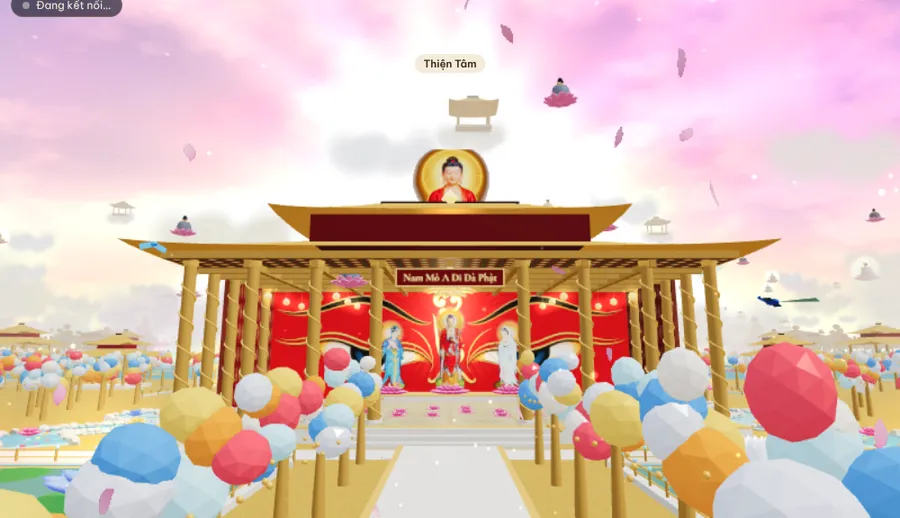
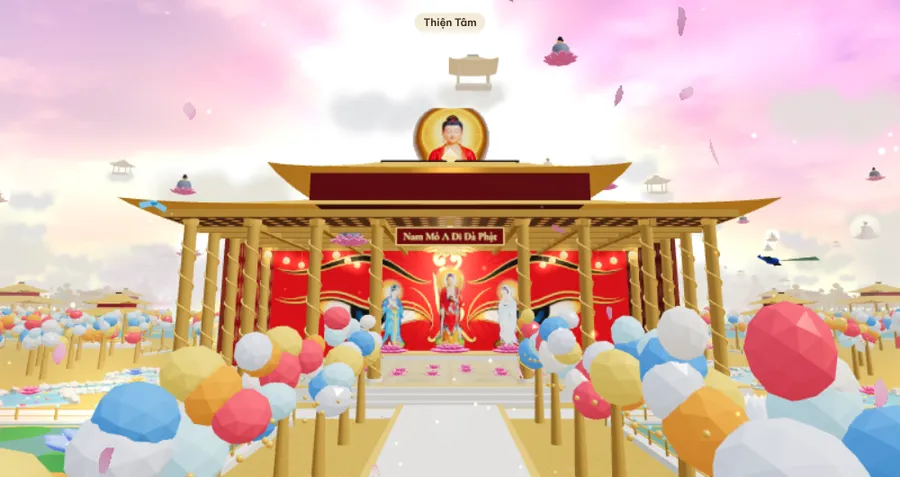
Hướng dẫn: ảnh bìa sạch hơn
Claude-Session: https://claude.ai/code/session_01Cii89sNnJTsj23pM4uwP29

diff --git a/tinhthat/huong-dan.html b/tinhthat/huong-dan.html
@@ -121,7 +121,7 @@ footer p{color:var(--ink2);font-size:15px}
     <h1>Hướng Dẫn Đi Chùa Trực Tuyến<br>Đạo Tràng Viên Thành</h1>
     <p class="lead">Ở nhà vẫn có thể lên chùa lễ Phật, thắp hương, thỉnh chuông, niệm Phật cùng đại chúng mỗi ngày và dạo cảnh Tây Phương Cực Lạc. Chỉ cần điện thoại hoặc máy tính có mạng, không phải cài đặt gì.</p>
     <a class="cta" href="./?v=28">🪷 Vào chùa ngay</a><a class="cta ghost" href="#vao-chua">Xem hướng dẫn</a>
-    <div class="heroimg"><img src="hd/hero.webp" width="900" height="518" alt="Chánh điện cõi Tây Phương Cực Lạc trong Đạo Tràng Viên Thành" fetchpriority="high"></div>
+    <div class="heroimg"><img src="hd/hero.webp" width="900" height="477" alt="Chánh điện cõi Tây Phương Cực Lạc trong Đạo Tràng Viên Thành" fetchpriority="high"></div>
     <div class="quick">
       <div class="q"><b>1</b><p><strong>Mở trang</strong> chottinhthuc.com, chọn mục Đạo Tràng Viên Thành, bấm “Vào chùa”.</p></div>
       <div class="q"><b>2</b><p><strong>Kéo ngón tay</strong> để đi dạo, đến gần tượng Phật sẽ hiện nút vàng để lễ.</p></div>
@@ -255,7 +255,7 @@ footer p{color:var(--ink2);font-size:15px}
       <div><div class="phone"><img src="hd/bando.webp" width="540" height="1054" alt="Bản đồ cõi Cực Lạc" loading="lazy"></div><div class="cap">Bản đồ, chạm tên để đến</div></div>
     </div>
   </div>
-  <div class="heroimg" style="margin-top:30px"><img src="hd/tuong.webp" width="900" height="518" alt="Tượng Đức Phật A Di Đà cao 500 mét" loading="lazy"></div>
+  <div class="heroimg" style="margin-top:30px"><img src="hd/tuong.webp" width="900" height="477" alt="Tượng Đức Phật A Di Đà cao 500 mét" loading="lazy"></div>
   <div class="cap">Tượng Đức Phật A Di Đà cao 500 mét ở cuối cõi Cực Lạc</div>
 </div></section>
 
